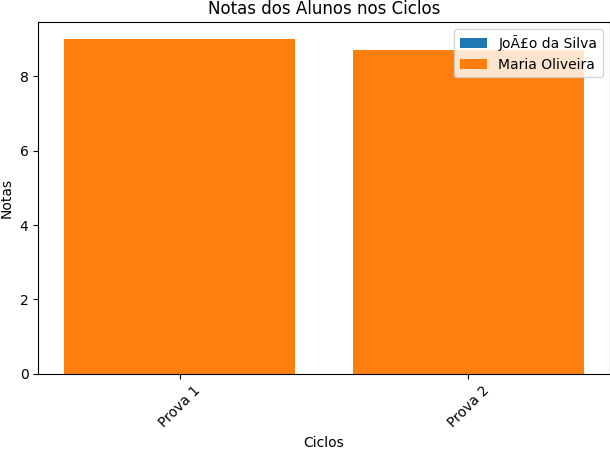
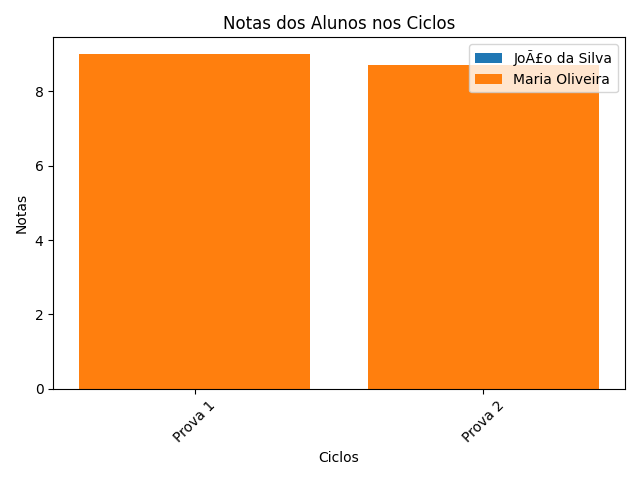
ok

diff --git a/gerar_grafico_png.py b/gerar_grafico_png.py
@@ -35,6 +35,6 @@ plt.legend()
 plt.xticks(rotation=45)
 plt.tight_layout()
 
-# Salvar o gráfico como um arquivo de imagem (por exemplo, PNG) sem permitir alterações
-plt.savefig('notas_alunos_ciclos.png', bbox_inches='tight', pad_inches=0)
-plt.close()  # Fecha o gráfico para evitar sua exibição
+# Salvar o gráfico como um arquivo de imagem (por exemplo, PNG)
+plt.savefig('notas_alunos_ciclos.png')
+plt.show()
